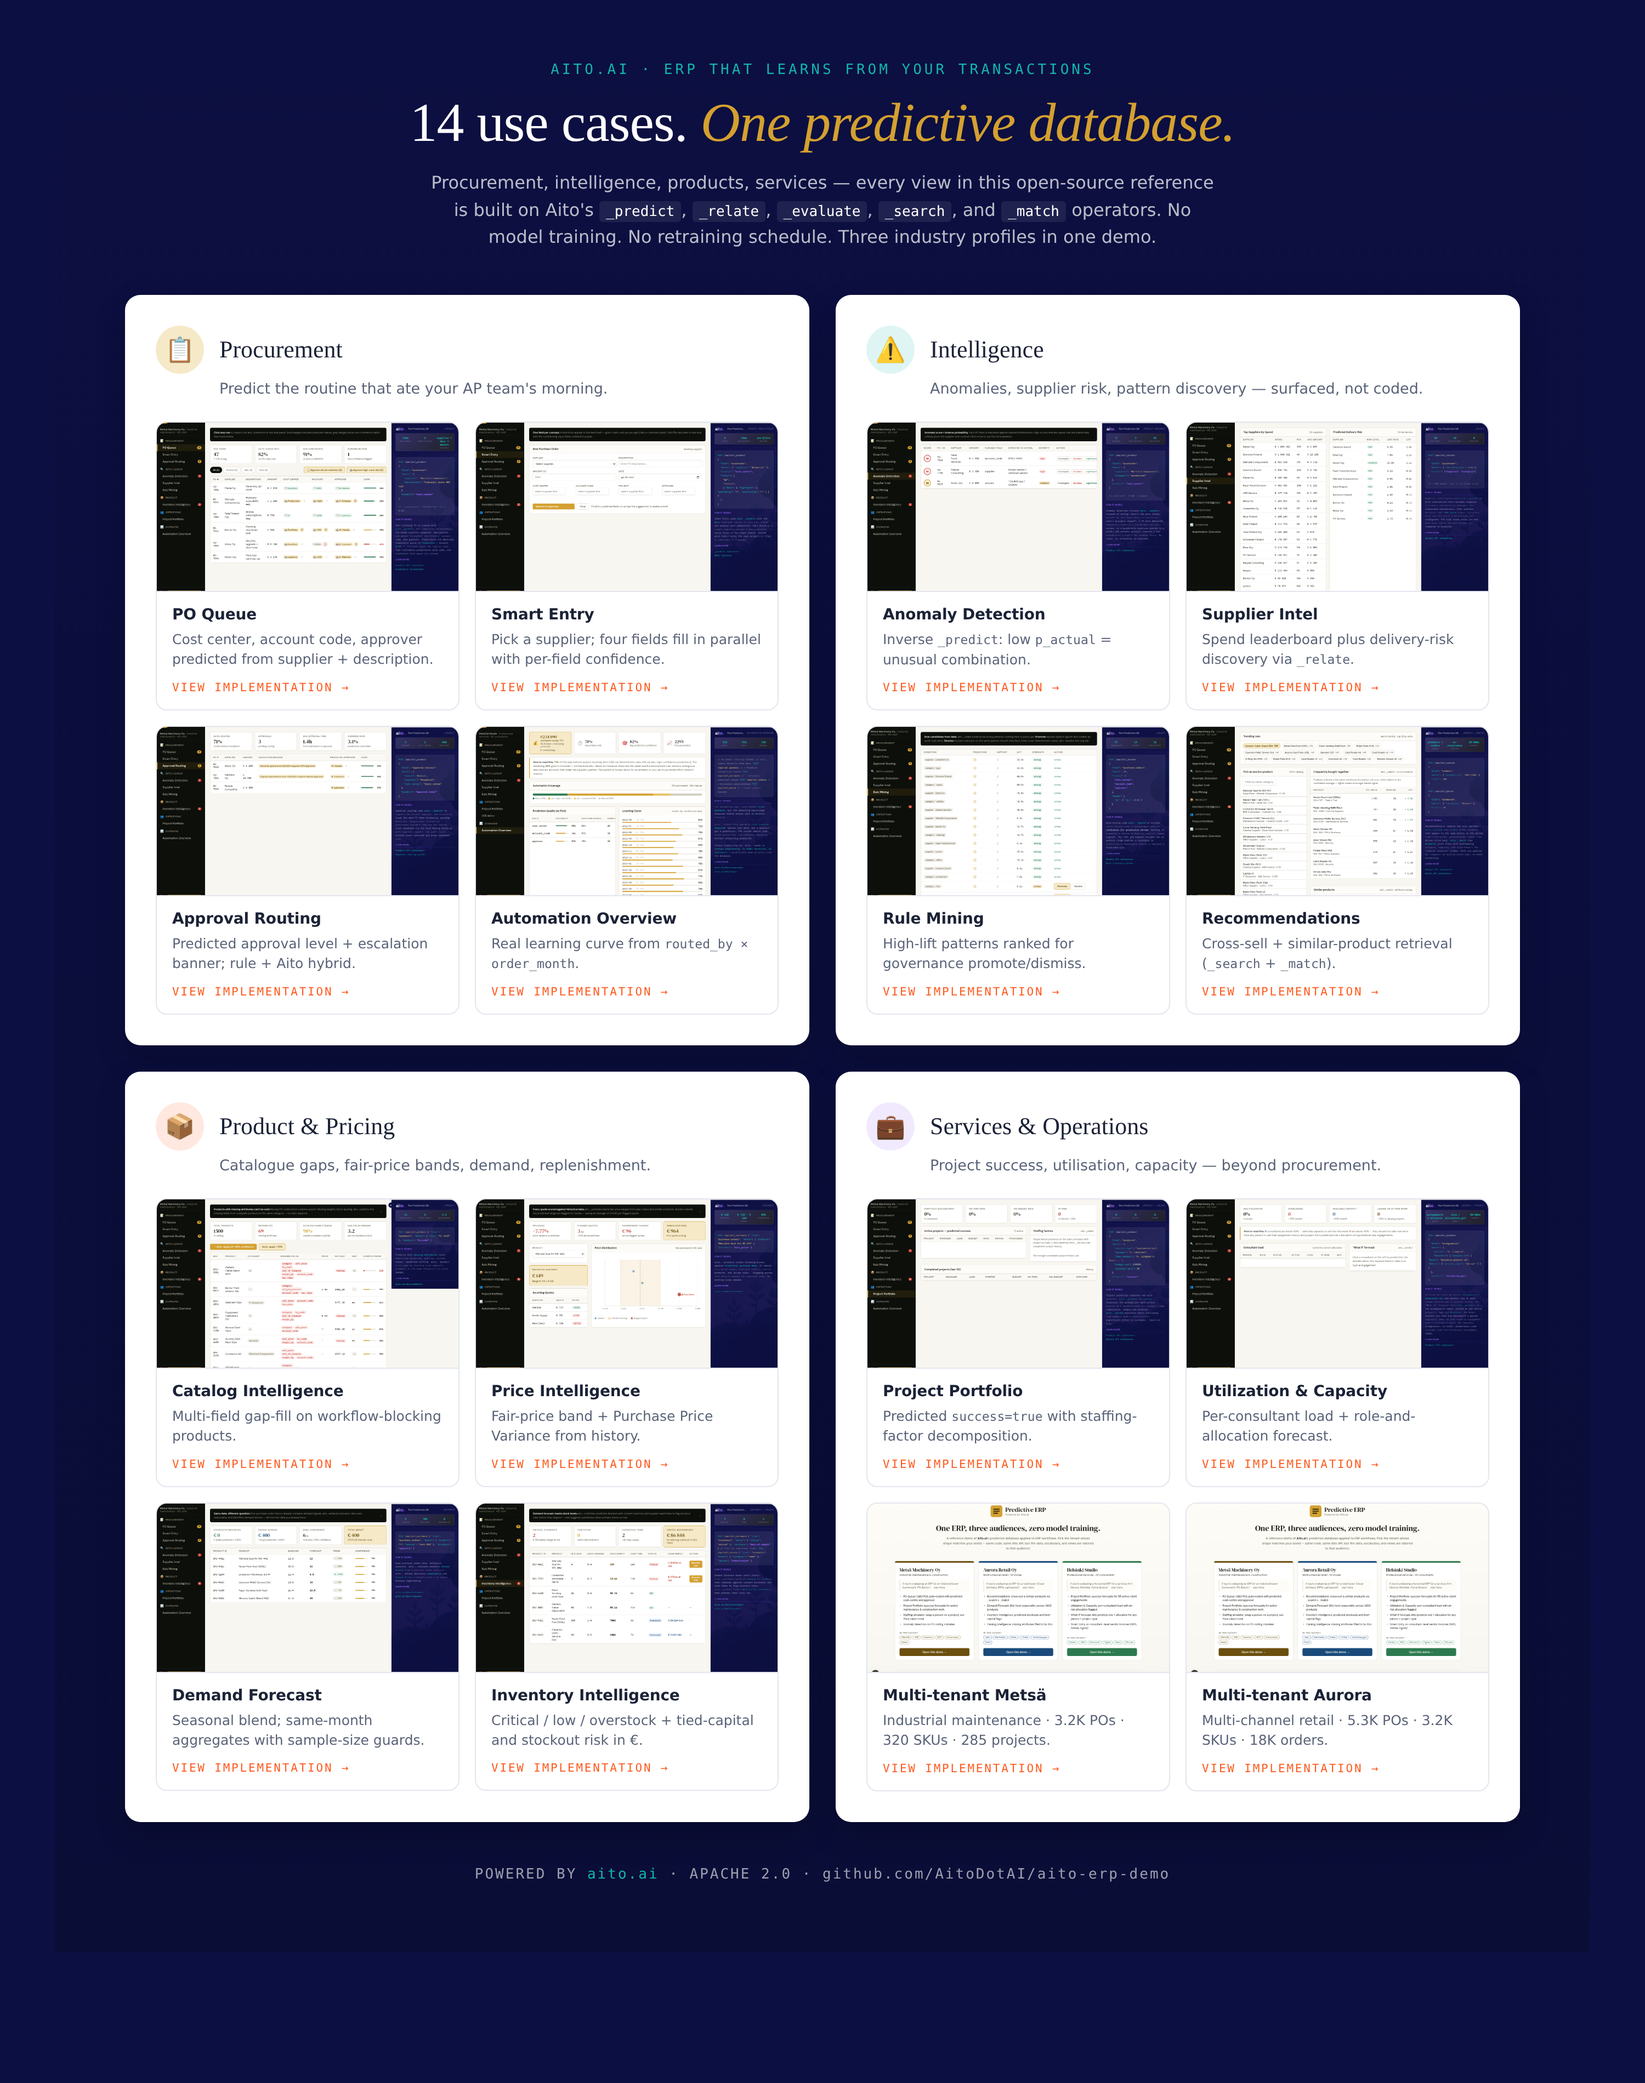
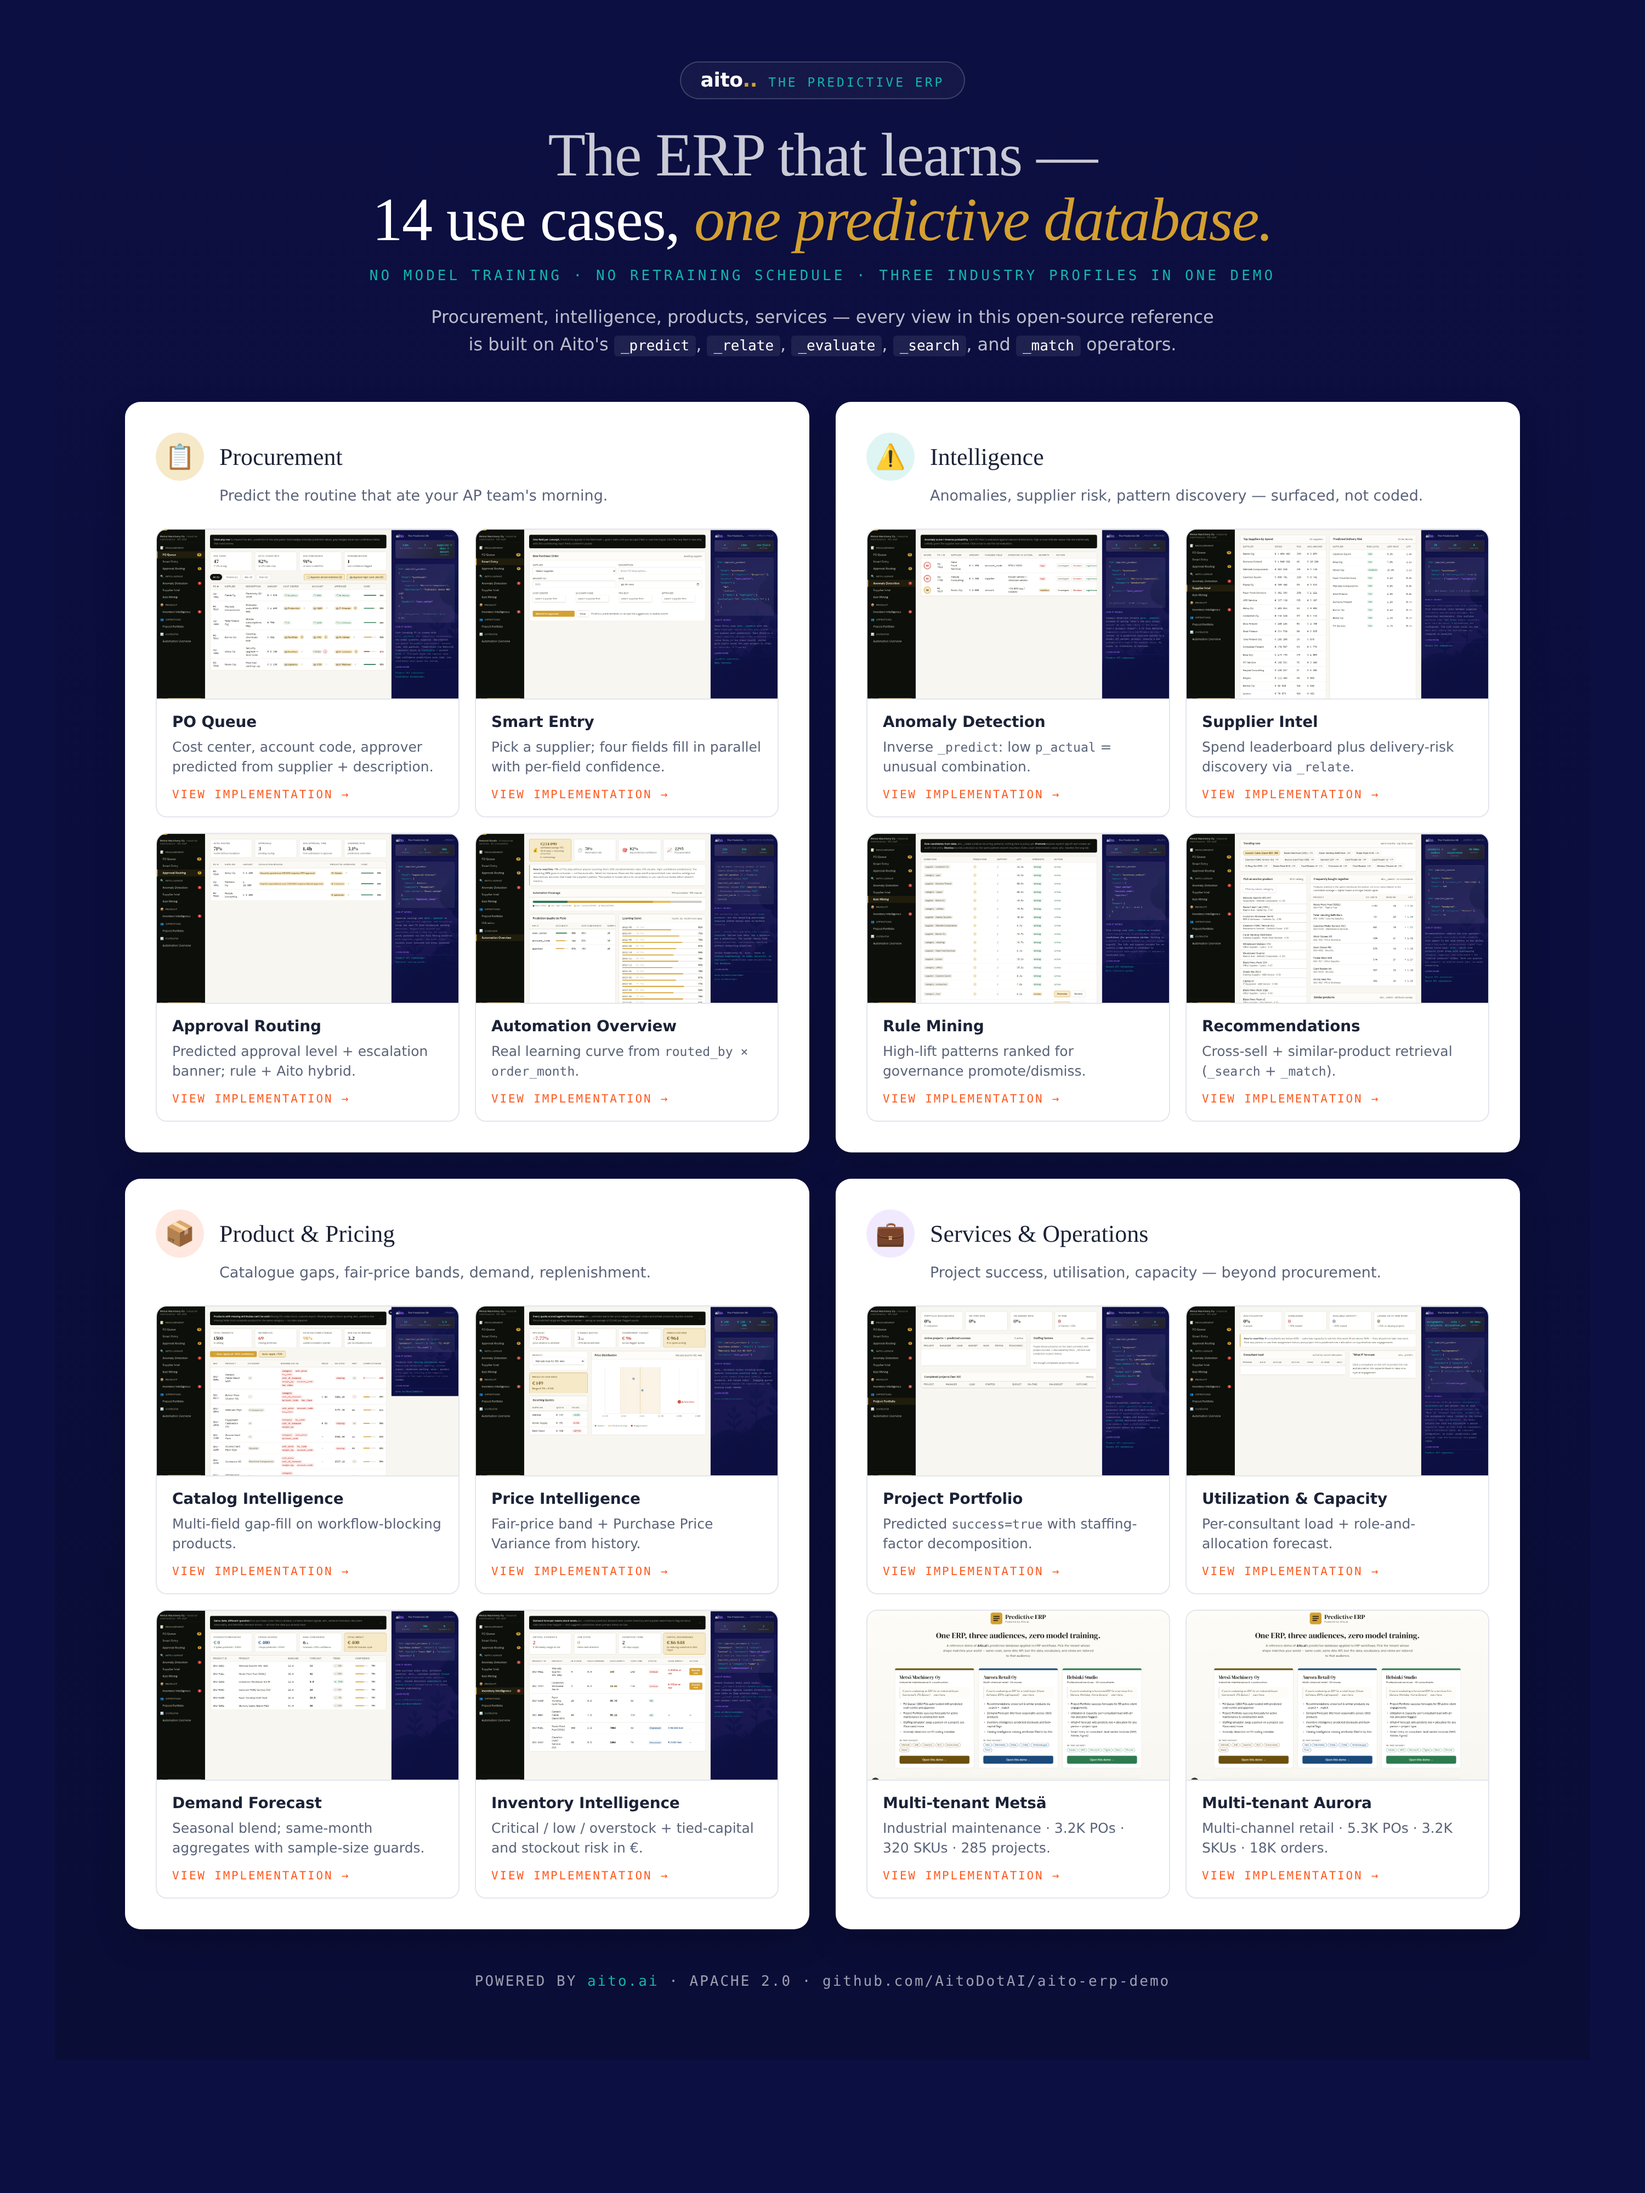
Brand the teaser with "The Predictive ERP" title
Header gains a pill-style brand mark at the top — `aito..` (white
+ gold dots) and `THE PREDICTIVE ERP` (teal mono caps) sit on a
faint outlined chip, matching how aito-demo presents its product
line.

Headline restructured to lead with the brand line: "The ERP that
learns —" on the first row in muted white, "14 use cases, one
predictive database." underneath with gold-italic emphasis on the
second clause. The detail row above the body copy ("No model
training · No retraining schedule · Three industry profiles in one
demo") keeps the proof points but moves them out of the H1 itself.

Re-rendered assets/teaser.png so README shows the new branding.

Changed region(s): [[0.062, 0.0311, 0.93, 0.9005]]

diff --git a/assets/teaser.html b/assets/teaser.html
@@ -2,7 +2,7 @@
 <html lang="en">
 <head>
 <meta charset="UTF-8">
-<title>Aito Predictive ERP — 14 use cases</title>
+<title>The Predictive ERP · Aito.ai — 14 use cases</title>
 <style>
   /* ── Tokens (project design system) ───────────────────────────── */
   :root {
@@ -46,22 +46,52 @@
     margin-bottom: 40px;
     color: #fff;
   }
-  .hdr .eyebrow {
+  .brand {
+    display: inline-flex;
+    align-items: baseline;
+    gap: 10px;
+    padding: 6px 18px;
+    border: 1px solid rgba(255,255,255,0.18);
+    border-radius: 999px;
+    margin-bottom: 22px;
+    background: rgba(255,255,255,0.04);
+  }
+  .brand .brand-mark {
+    font-family: "DM Sans", system-ui, sans-serif;
+    font-size: 18px;
+    font-weight: 700;
+    color: #fff;
+    letter-spacing: -0.2px;
+  }
+  .brand .brand-mark .dot {
+    color: var(--gold);
+  }
+  .brand .brand-tag {
+    font-family: "DM Mono", monospace;
+    font-size: 11.5px;
+    letter-spacing: 2px;
+    text-transform: uppercase;
+    color: var(--teal);
+  }
+  .hdr h1 {
+    font-family: "DM Serif Display", Georgia, serif;
+    font-size: 56px;
+    font-weight: 400;
+    margin: 0 0 14px;
+    letter-spacing: -0.8px;
+    line-height: 1.05;
+  }
+  .hdr h1 .leading { color: rgba(255,255,255,0.78); }
+  .hdr h1 .title { color: #fff; }
+  .hdr h1 .title em { color: var(--gold); font-style: italic; }
+  .hdr .sub {
     font-family: "DM Mono", monospace;
     font-size: 13px;
     letter-spacing: 2.5px;
     color: var(--teal);
     text-transform: uppercase;
-    margin-bottom: 12px;
+    margin: 14px 0 18px;
   }
-  .hdr h1 {
-    font-family: "DM Serif Display", Georgia, serif;
-    font-size: 50px;
-    font-weight: 400;
-    margin: 0 0 14px;
-    letter-spacing: -0.5px;
-  }
-  .hdr h1 .accent { color: var(--gold); font-style: italic; }
   .hdr p {
     font-size: 16px;
     color: rgba(255,255,255,0.72);
@@ -182,16 +212,23 @@
 <div class="page">
 
   <header class="hdr">
-    <div class="eyebrow">Aito.ai · ERP that learns from your transactions</div>
-    <h1>14 use cases. <span class="accent">One predictive database.</span></h1>
+    <div class="brand">
+      <span class="brand-mark">aito<span class="dot">..</span></span>
+      <span class="brand-tag">The Predictive ERP</span>
+    </div>
+    <h1>
+      <span class="leading">The ERP that learns —</span><br>
+      <span class="title">14 use cases, <em>one predictive database.</em></span>
+    </h1>
+    <div class="sub">No model training · No retraining schedule · Three industry profiles in one demo</div>
     <p>
-      Procurement, intelligence, products, services — every view in this open-source
-      reference is built on Aito's <code style="color:#fff;background:rgba(255,255,255,0.08);padding:2px 6px;border-radius:3px;font-family:DM Mono,monospace;font-size:13px;">_predict</code>,
+      Procurement, intelligence, products, services — every view in this open-source reference is built on Aito's
+      <code style="color:#fff;background:rgba(255,255,255,0.08);padding:2px 6px;border-radius:3px;font-family:DM Mono,monospace;font-size:13px;">_predict</code>,
       <code style="color:#fff;background:rgba(255,255,255,0.08);padding:2px 6px;border-radius:3px;font-family:DM Mono,monospace;font-size:13px;">_relate</code>,
       <code style="color:#fff;background:rgba(255,255,255,0.08);padding:2px 6px;border-radius:3px;font-family:DM Mono,monospace;font-size:13px;">_evaluate</code>,
       <code style="color:#fff;background:rgba(255,255,255,0.08);padding:2px 6px;border-radius:3px;font-family:DM Mono,monospace;font-size:13px;">_search</code>, and
       <code style="color:#fff;background:rgba(255,255,255,0.08);padding:2px 6px;border-radius:3px;font-family:DM Mono,monospace;font-size:13px;">_match</code>
-      operators. No model training. No retraining schedule. Three industry profiles in one demo.
+      operators.
     </p>
   </header>
 
